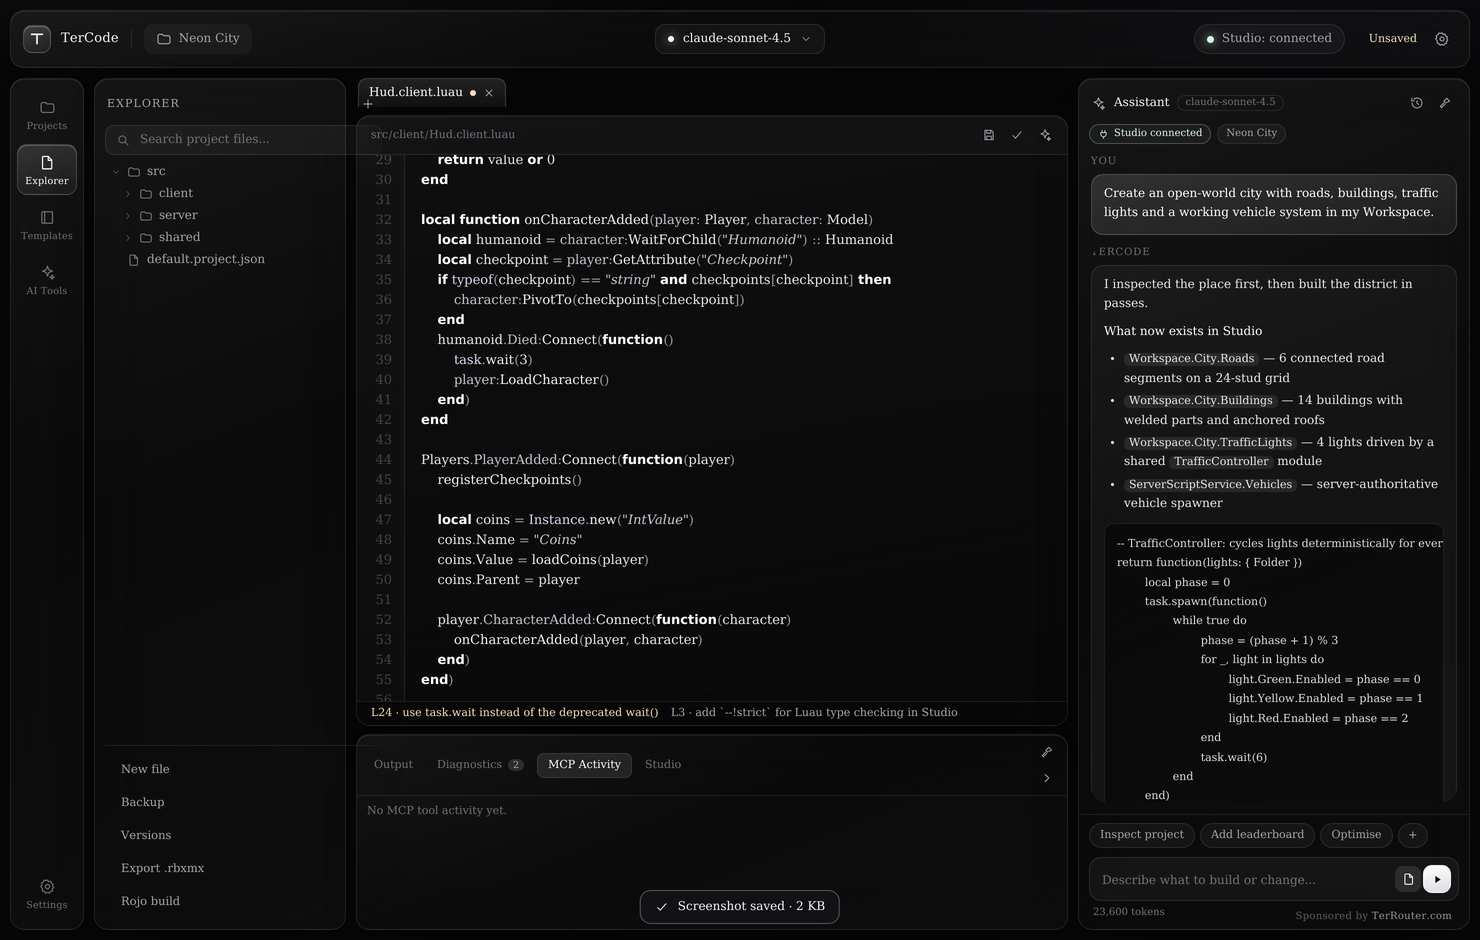
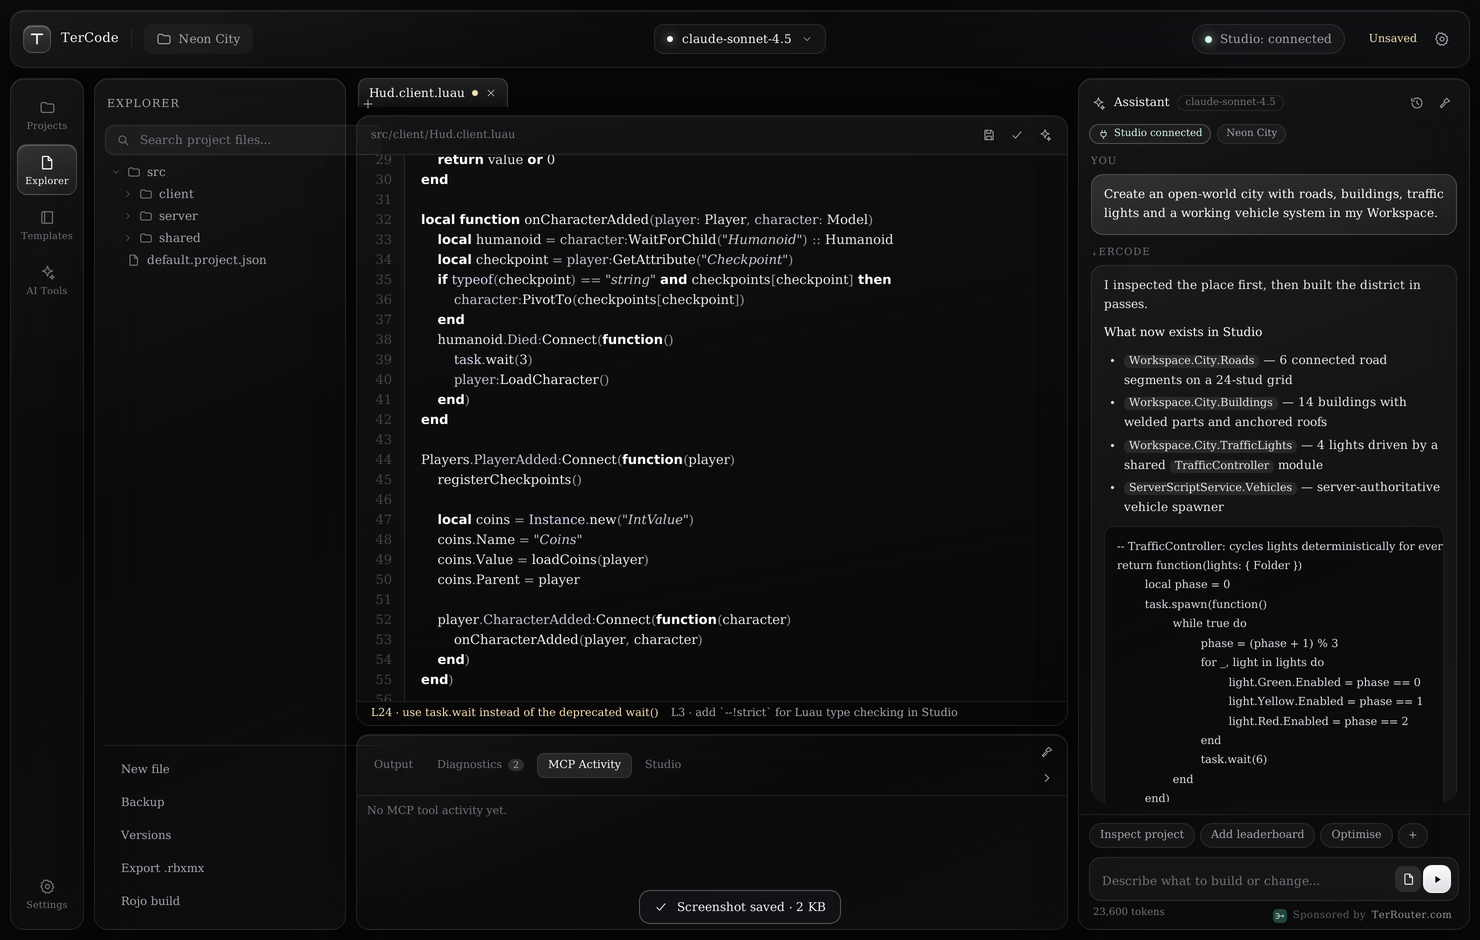
One model selector, Ter Router branding, and less clutter
The model list was static markup inside the top bar; it is now a single
popover built on demand and anchored to whichever control asked for it, so
the assistant header chip and the top-bar button open the same selector.
Discovery, filtering and the current-model mark are unchanged.

Uses Ter Router's own logo in the sponsor label, the selector header and the
AI provider card, and drops leftovers: stale ignore rules for local
cross-compile artefacts, the duplicated popover markup, and the old
screenshot names.

🤖 Generated with Codebuff

diff --git a/ui/app.js b/ui/app.js
@@ -284,27 +284,17 @@
     $("projectChip").addEventListener("click", () => setView("projects"));
     $("modelButton").addEventListener("click", (event) => {
       event.stopPropagation();
-      const popover = $("modelPopover");
-      popover.hidden = !popover.hidden;
-      if (!popover.hidden) {
-        renderModelList();
-        $("modelFilter").focus();
-        if (!S.models.length) refreshModels();
-      }
+      toggleModelMenu($("modelButton"));
+    });
+    $("assistantModel").addEventListener("click", (event) => {
+      event.stopPropagation();
+      toggleModelMenu($("assistantModel"));
     });
     document.addEventListener("click", (event) => {
       const popover = $("modelPopover");
-      if (!popover.hidden && !popover.contains(event.target) && event.target !== $("modelButton")) {
-        popover.hidden = true;
+      if (popover && !popover.contains(event.target) && !event.target.closest("#modelButton, #assistantModel")) {
+        closeModelMenu();
       }
-    });
-    $("modelFilter").addEventListener("input", (event) => {
-      S.modelFilter = event.target.value.toLowerCase();
-      renderModelList();
-    });
-    $("refreshModels").addEventListener("click", (event) => {
-      event.stopPropagation();
-      refreshModels();
     });
 
     $("studioPill").addEventListener("click", () => {
@@ -1383,8 +1373,60 @@
     $("assistantModel").textContent = model ? shortModel(model) : "no model";
   }
 
+  function closeModelMenu() {
+    const node = $("modelPopover");
+    if (node) node.remove();
+  }
+
+  function toggleModelMenu(anchor) {
+    const open = $("modelPopover");
+    if (open && open.dataset.anchor === anchor.id) {
+      closeModelMenu();
+      return;
+    }
+    openModelMenu(anchor);
+  }
+
+  // One selector, anchored to whichever control asked for it.
+  function openModelMenu(anchor) {
+    closeModelMenu();
+    const rect = anchor.getBoundingClientRect();
+    const popover = el("div", "popover model-popover");
+    popover.id = "modelPopover";
+    popover.dataset.anchor = anchor.id;
+    popover.innerHTML =
+      '<div class="popover-head"><span class="popover-brand"><img src="assets/terrouter.svg" alt="">' +
+      "<span>Ter Router models</span></span>" +
+      '<button class="icon-btn sm" id="refreshModels" title="Refresh model list">' +
+      '<svg class="ic"><use href="#i-refresh"/></svg></button></div>' +
+      '<div class="input-row"><svg class="ic"><use href="#i-search"/></svg>' +
+      '<input id="modelFilter" placeholder="Filter models…" autocomplete="off"></div>' +
+      '<div class="model-list" id="modelList"></div>';
+    document.body.appendChild(popover);
+
+    const width = popover.offsetWidth || 400;
+    const left = Math.min(Math.max(8, rect.left + rect.width / 2 - width / 2), window.innerWidth - width - 8);
+    const top = Math.max(8, Math.min(rect.bottom + 8, window.innerHeight - popover.offsetHeight - 8));
+    popover.style.left = left + "px";
+    popover.style.top = top + "px";
+
+    $("modelFilter").value = S.modelFilter || "";
+    $("modelFilter").addEventListener("input", (event) => {
+      S.modelFilter = event.target.value.toLowerCase();
+      renderModelList();
+    });
+    $("refreshModels").addEventListener("click", (event) => {
+      event.stopPropagation();
+      refreshModels();
+    });
+    renderModelList();
+    $("modelFilter").focus();
+    if (!S.models.length) refreshModels();
+  }
+
   function renderModelList() {
     const list = $("modelList");
+    if (!list) return;
     list.innerHTML = "";
     const models = S.models.filter((m) => !S.modelFilter || m.id.toLowerCase().includes(S.modelFilter));
     if (!models.length) {
@@ -1406,7 +1448,7 @@
     settings.ai = { ...settings.ai, model: id };
     S.settings = settings;
     renderModelLabel();
-    $("modelPopover").hidden = true;
+    closeModelMenu();
     await safeCall("update_settings", { settings });
     toast("Model set to " + shortModel(id), "ok");
   }
@@ -1824,6 +1866,8 @@
 
     const panels = {
       ai:
+        "<div class='provider-card'><img src='assets/terrouter.svg' alt=''>" +
+        "<div><div class='provider-name'>Ter Router</div><div class='provider-url'>" + MD.escape(ai.baseUrl) + "</div></div></div>" +
         "<div class='field'><label>Ter Router API key</label>" +
         "<input type='password' id='setApiKey' placeholder='" + (S.boot && S.boot.apiKeyMasked ? S.boot.apiKeyMasked : "tr_live_…") + "' autocomplete='off'>" +
         "<div class='hint'>Stored in the " + MD.escape(S.boot ? S.boot.secretBackend : "Windows Credential Manager") + ". Never written to settings or logs.</div></div>" +
@@ -2139,6 +2183,7 @@
         quickOpen();
       } else if (event.key === "Escape") {
         if (!$("modalRoot").hidden) closeModal();
+        closeModelMenu();
       }
     });
   }

diff --git a/ui/styles.css b/ui/styles.css
@@ -190,11 +190,9 @@ svg.ic.chev { width: 12px; height: 12px; transform: rotate(90deg); opacity: 0.6;
 .dot-live.on { background: #fff; box-shadow: 0 0 10px rgba(255, 255, 255, 0.7); }
 
 .popover {
-  position: absolute;
-  top: calc(100% + 8px);
-  left: 50%;
-  transform: translateX(-50%);
+  position: fixed;
   width: 400px;
+  max-width: calc(100vw - 24px);
   padding: 10px;
   border-radius: 14px;
   background: rgba(18, 18, 21, 0.92);
@@ -206,8 +204,8 @@ svg.ic.chev { width: 12px; height: 12px; transform: rotate(90deg); opacity: 0.6;
 }
 
 @keyframes pop-in {
-  from { opacity: 0; transform: translate(-50%, -4px) scale(0.98); }
-  to { opacity: 1; transform: translate(-50%, 0) scale(1); }
+  from { opacity: 0; transform: translateY(-4px) scale(0.98); }
+  to { opacity: 1; transform: none; }
 }
 
 .popover-head {
@@ -220,6 +218,8 @@ svg.ic.chev { width: 12px; height: 12px; transform: rotate(90deg); opacity: 0.6;
   text-transform: uppercase;
   letter-spacing: 0.7px;
 }
+.popover-brand { display: flex; align-items: center; gap: 7px; }
+.popover-brand img { width: 15px; height: 15px; border-radius: 4px; display: block; }
 
 .model-list { max-height: 320px; overflow: auto; display: flex; flex-direction: column; gap: 2px; }
 
@@ -790,16 +790,35 @@ svg.ic.chev { width: 12px; height: 12px; transform: rotate(90deg); opacity: 0.6;
 .assistant-title { display: flex; align-items: center; gap: 8px; font-size: 12px; font-weight: 550; }
 .assistant-title svg { width: 15px; height: 15px; color: var(--muted); }
 .assistant-model {
+  font: inherit;
   font-size: 10px;
   color: var(--faint);
   padding: 1px 7px;
   border-radius: 999px;
   border: 1px solid var(--stroke);
+  background: transparent;
   max-width: 150px;
   overflow: hidden;
   text-overflow: ellipsis;
   white-space: nowrap;
+  cursor: pointer;
+  transition: color 140ms, border-color 140ms;
 }
+.assistant-model:hover { color: var(--text); border-color: var(--stroke-strong); }
+
+.provider-card {
+  display: flex;
+  align-items: center;
+  gap: 11px;
+  padding: 10px 12px;
+  margin-bottom: 16px;
+  border-radius: 12px;
+  border: 1px solid var(--stroke);
+  background: rgba(255, 255, 255, 0.03);
+}
+.provider-card img { width: 28px; height: 28px; border-radius: 8px; display: block; }
+.provider-name { font-size: 12px; font-weight: 550; }
+.provider-url { font-family: var(--mono); font-size: 10.5px; color: var(--faint); margin-top: 1px; }
 .assistant-actions { display: flex; gap: 2px; }
 
 .context-bar { display: flex; gap: 6px; padding: 0 10px 8px; flex-wrap: wrap; }
@@ -1030,6 +1049,9 @@ svg.ic.chev { width: 12px; height: 12px; transform: rotate(90deg); opacity: 0.6;
 /* ---------- Sponsor ---------- */
 
 .sponsor {
+  display: inline-flex;
+  align-items: center;
+  gap: 6px;
   position: fixed;
   right: 18px;
   bottom: 12px;
@@ -1044,6 +1066,8 @@ svg.ic.chev { width: 12px; height: 12px; transform: rotate(90deg); opacity: 0.6;
   transition: all 160ms var(--ease);
   backdrop-filter: blur(10px);
 }
+.sponsor img { width: 14px; height: 14px; border-radius: 4px; display: block; opacity: 0.8; transition: opacity 160ms; }
+.sponsor:hover img { opacity: 1; }
 .sponsor span { color: rgba(255, 255, 255, 0.56); font-weight: 550; }
 .sponsor:hover { color: rgba(255, 255, 255, 0.72); border-color: var(--stroke); background: rgba(255, 255, 255, 0.05); }
 .sponsor:hover span { color: #fff; }

diff --git a/ui/index.html b/ui/index.html
@@ -52,17 +52,6 @@
           <span id="modelLabel">Choose a model</span>
           <svg class="ic chev"><use href="#i-chevron"/></svg>
         </button>
-        <div class="popover model-popover" id="modelPopover" hidden>
-          <div class="popover-head">
-            <span>Ter Router models</span>
-            <button class="icon-btn sm" id="refreshModels" title="Refresh model list"><svg class="ic"><use href="#i-refresh"/></svg></button>
-          </div>
-          <div class="input-row">
-            <svg class="ic"><use href="#i-search"/></svg>
-            <input id="modelFilter" placeholder="Filter models…" autocomplete="off" />
-          </div>
-          <div class="model-list" id="modelList"></div>
-        </div>
       </div>
     </div>
 
@@ -172,7 +161,7 @@
         <div class="assistant-title">
           <svg class="ic"><use href="#i-sparkle"/></svg>
           <span>Assistant</span>
-          <span class="assistant-model" id="assistantModel">no model</span>
+          <button class="assistant-model" id="assistantModel" title="Choose a model">no model</button>
         </div>
         <div class="assistant-actions">
           <button class="icon-btn sm" id="promptHistoryBtn" title="Prompt history"><svg class="ic"><use href="#i-history"/></svg></button>
@@ -210,6 +199,7 @@
   </main>
 
   <a class="sponsor" href="https://terrouter.com" id="sponsorLink" title="Sponsored by TerRouter.com">
+    <img src="assets/terrouter.svg" alt="" width="14" height="14" />
     Sponsored by <span>TerRouter.com</span>
   </a>
 </div>

diff --git a/README.md b/README.md
@@ -14,7 +14,7 @@
 
 - **Real Studio edits, not copy-paste.** TerCode speaks MCP over stdio to Roblox Studio's built-in MCP server, discovers its tools (`script_read`, `multi_edit`, `search_game_tree`, `save_place`, `get_console_output`, …) and lets the model call them directly.
 - **Automatic connection.** At launch it finds Roblox Studio, resolves the MCP launcher (`%LOCALAPPDATA%\Roblox\mcp.bat`), performs the `initialize` handshake, lists tools, and reconnects automatically when Studio restarts.
-- **Ter Router models with streaming + tool calling.** Model discovery from `GET /v1/models`, streaming completions with usage accounting, retries, timeouts and precise error messages.
+- **Ter Router models with streaming + tool calling.** One model selector — in the top bar and in the assistant header — backed by live discovery from `GET /v1/models`, with streaming completions, usage accounting, retries, timeouts and precise error messages.
 - **Playtest without leaving TerCode.** Start a playtest or a server, stop it, read the Studio console and capture viewport screenshots — through Studio's documented `start_stop_play`, `get_studio_state`, `get_console_output` and `screen_capture` tools. Captures are saved next to your settings and shown in a gallery you can open, so you see what the assistant saw.
 - **A real project workspace.** Projects on disk, file tree, Luau editor with syntax highlighting and diagnostics, search, version snapshots, backups, `.rbxmx` export and Rojo builds.
 - **A settings page, not a dialog.** AI provider, Roblox MCP, testing, editor and about tabs live in the workspace, with the key stored in Credential Manager.
@@ -22,17 +22,19 @@
 
 ## Screenshots
 
-| Projects and templates | Discovered Studio tools |
+| Model selector | Projects and templates |
 | --- | --- |
-| ![Projects](screenshots/02-projects.png) | ![AI tools](screenshots/03-tools.png) |
+| ![Model selector](screenshots/08-models.png) | ![Projects](screenshots/02-projects.png) |
 
-| Settings — Roblox MCP | Settings — Studio testing |
+| Discovered Studio tools | Settings — Roblox MCP |
 | --- | --- |
-| ![Roblox MCP settings](screenshots/04-settings.png) | ![Studio testing](screenshots/05-settings-testing.png) |
+| ![AI tools](screenshots/03-tools.png) | ![Roblox MCP settings](screenshots/04-settings.png) |
 
-| MCP activity and output | Playtest, console and screenshots |
+| Settings — Studio testing | MCP activity and output |
 | --- | --- |
-| ![Activity](screenshots/06-activity.png) | ![Studio testing panel](screenshots/07-studio-testing.png) |
+| ![Studio testing](screenshots/05-settings-testing.png) | ![Activity](screenshots/06-activity.png) |
+
+![Playtest controls, console output and screenshot gallery](screenshots/07-studio-testing.png)
 
 These are rendered from the shipping frontend with a stubbed backend and sample data (no real key or Studio session). The interface is plain HTML/CSS/JS in `ui/`, so you can regenerate them without the Rust build:
 
@@ -124,15 +126,15 @@ cargo tauri build --project crates/terstudio
 Tests need nothing but Rust:
 
 ```bash
-cargo test -p tercore          # 111 tests
+cargo test -p tercore          # 114 tests
 cargo check -p terstudio       # desktop shell
 ```
 
 CI runs the core suite on Windows and Linux, and checks the Windows app build on every push. To cut a release, do any of:
 
 ```bash
-git push origin v0.1.0            # tag
-git push origin release/v0.1.0    # release branch (the tag is created for you)
+git push origin v0.3.0            # tag
+git push origin release/v0.3.0    # release branch (the tag is created for you)
 ```
 
 or run **Actions → Release (Windows x64) → Run workflow**. `.github/workflows/release.yml` builds the NSIS installer and MSI on `windows-latest` and publishes them to the GitHub Release for that version.
